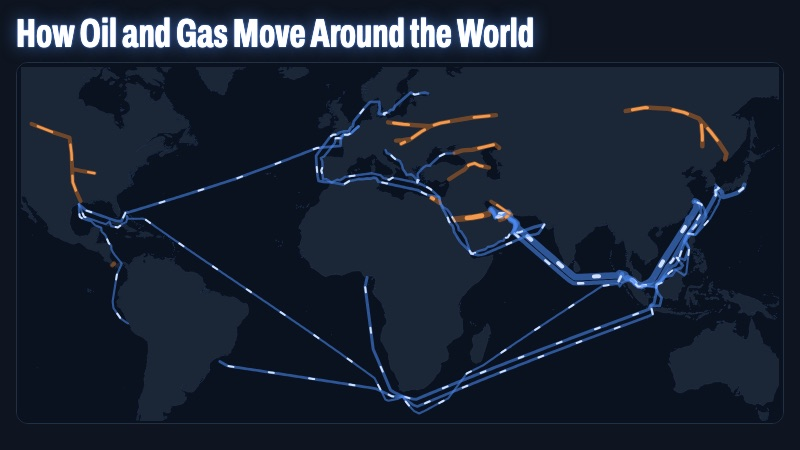
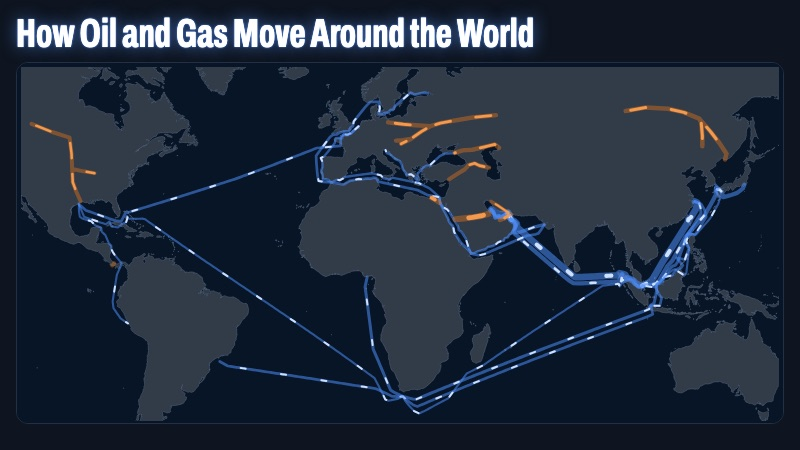
Oil & gas map: steady stat boxes, clearer land/sea, "Pipelines" label
Stat boxes keep one height across all views. Land is lighter than the
sea. "By land" renamed "Pipelines" (some run under the sea; oil also
moves by rail/truck/barge in smaller amounts). JSON-LD description
updated.

diff --git a/energy/oil-gas-flows/index.html b/energy/oil-gas-flows/index.html
@@ -6,11 +6,11 @@
 <link rel="apple-touch-icon" href="https://mekhatria.github.io/interactive-chart/assets/apple-touch-icon.png">
 <meta name="viewport" content="width=device-width, initial-scale=1, viewport-fit=cover">
 <link rel="canonical" href="https://mekhatria.github.io/interactive-chart/energy/oil-gas-flows/">
-<meta name="description" content="Animated world map of how oil and natural gas travel: tanker and LNG routes through Hormuz, Malacca, Suez and the other chokepoints, and the big oil and gas pipelines across land. Data: US EIA, 2025.">
+<meta name="description" content="Animated world map of how oil and natural gas travel: tanker and LNG routes through Hormuz, Malacca, Suez and the other chokepoints, and the big oil and gas pipelines. Data: US EIA, 2025.">
 <meta property="og:type" content="website">
 <meta property="og:site_name" content="Interactive Charts">
 <meta property="og:title" content="How Oil and Gas Move Around the World">
-<meta property="og:description" content="Animated world map of how oil and natural gas travel: tanker and LNG routes through Hormuz, Malacca, Suez and the other chokepoints, and the big oil and gas pipelines across land. Data: US EIA, 2025.">
+<meta property="og:description" content="Animated world map of how oil and natural gas travel: tanker and LNG routes through Hormuz, Malacca, Suez and the other chokepoints, and the big oil and gas pipelines. Data: US EIA, 2025.">
 <meta property="og:url" content="https://mekhatria.github.io/interactive-chart/energy/oil-gas-flows/">
 <meta property="og:image" content="https://mekhatria.github.io/interactive-chart/thumbs/oil-gas-flows.jpg">
 <meta property="og:image:width" content="800">
@@ -27,7 +27,7 @@
       "url": "https://mekhatria.github.io/interactive-chart/energy/oil-gas-flows/",
       "name": "How Oil and Gas Move Around the World",
       "headline": "How Oil and Gas Move Around the World",
-      "description": "Animated world map of how oil and natural gas travel: tanker and LNG routes through Hormuz, Malacca, Suez and the other chokepoints, and the big oil and gas pipelines across land. Data: US EIA, 2025.",
+      "description": "Animated world map of how oil and natural gas travel: tanker and LNG routes through Hormuz, Malacca, Suez and the other chokepoints, and the big oil and gas pipelines. Data: US EIA, 2025.",
       "inLanguage": "en",
       "image": "https://mekhatria.github.io/interactive-chart/thumbs/oil-gas-flows.jpg",
       "datePublished": "2026-11-19",
@@ -278,7 +278,7 @@ button:focus-visible{outline:2px solid #fff;outline-offset:2px}
 
 .stats{display:grid;grid-template-columns:repeat(4,minmax(0,1fr));gap:12px;margin-top:16px}
 @media (max-width:820px){.stats{grid-template-columns:repeat(2,minmax(0,1fr))}}
-.stat{background:var(--panel);border:1px solid var(--line);border-radius:12px;padding:10px 14px}
+.stat{background:var(--panel);border:1px solid var(--line);border-radius:12px;padding:10px 14px;box-sizing:border-box}
 .stat .k{font-size:11px;letter-spacing:.12em;text-transform:uppercase;color:var(--muted)}
 .stat .v{font-stretch:70%;font-weight:650;font-size:26px;line-height:1.15;color:#fff;font-variant-numeric:tabular-nums}
 .stat .v small{font-size:15px;color:var(--muted);font-weight:500;margin-left:3px}
@@ -305,7 +305,7 @@ button:focus-visible{outline:2px solid #fff;outline-offset:2px}
 .switch input:checked+.sl{background:#F2B630}
 .switch input:checked+.sl::after{transform:translateX(14px)}
 .switch input:focus-visible+.sl{outline:2px solid #fff;outline-offset:2px}
-#map{width:100%;aspect-ratio:16/9;min-height:300px;border-radius:12px;overflow:hidden;background:#0A1220;border:1px solid var(--line)}
+#map{width:100%;aspect-ratio:16/9;min-height:300px;border-radius:12px;overflow:hidden;background:#071526;border:1px solid var(--line)}
 @media (max-width:600px){#map{aspect-ratio:auto;height:320px}}
 .legend{display:flex;flex-wrap:wrap;gap:4px 16px;margin:8px 0 0 4px;font-size:13px;color:var(--soft)}
 .legend span{display:inline-flex;align-items:center;gap:7px}
@@ -349,7 +349,7 @@ footer a{color:var(--soft)}
           <div class="modes" role="radiogroup" aria-label="Oil view" data-com="oil">
             <button role="radio" aria-checked="true" tabindex="0" data-com="oil" data-m="all" style="--c:#5B95FA"><span class="rb"></span><span class="ic">🌍</span><span class="t">All</span></button>
             <button role="radio" aria-checked="false" tabindex="-1" class="new" data-com="oil" data-m="sea" style="--c:#4C8DF6"><span class="rb"></span><span class="ic">🚢</span><span class="t">By sea</span></button>
-            <button role="radio" aria-checked="false" tabindex="-1" class="new" data-com="oil" data-m="land" style="--c:#D9701C"><span class="rb"></span><span class="ic">🛢</span><span class="t">By land</span></button>
+            <button role="radio" aria-checked="false" tabindex="-1" class="new" data-com="oil" data-m="land" style="--c:#D9701C"><span class="rb"></span><span class="ic">🛢</span><span class="t">Pipelines</span></button>
           </div>
         </div>
         <div class="box" data-com="gas" style="--bc:#5FD3F0">
@@ -357,7 +357,7 @@ footer a{color:var(--soft)}
           <div class="modes" role="radiogroup" aria-label="Natural gas view" data-com="gas">
             <button role="radio" aria-checked="false" tabindex="-1" class="new" data-com="gas" data-m="all" style="--c:#5B95FA"><span class="rb"></span><span class="ic">🌍</span><span class="t">All</span></button>
             <button role="radio" aria-checked="false" tabindex="-1" class="new" data-com="gas" data-m="sea" style="--c:#4C8DF6"><span class="rb"></span><span class="ic">🚢</span><span class="t">By sea (LNG)</span></button>
-            <button role="radio" aria-checked="false" tabindex="-1" class="new" data-com="gas" data-m="land" style="--c:#D9701C"><span class="rb"></span><span class="ic">🔥</span><span class="t">By land</span></button>
+            <button role="radio" aria-checked="false" tabindex="-1" class="new" data-com="gas" data-m="land" style="--c:#D9701C"><span class="rb"></span><span class="ic">🔥</span><span class="t">Pipelines</span></button>
           </div>
         </div>
       </div>
@@ -375,7 +375,7 @@ footer a{color:var(--soft)}
         <div id="map" role="img" aria-label="World map of the main oil tanker routes, chokepoints and pipelines"></div>
         <div class="legend" aria-hidden="true">
           <span><i class="ln sea"></i>Tanker route (by sea)</span>
-          <span><i class="ln pipe"></i>Pipeline (by land)</span>
+          <span><i class="ln pipe"></i>Pipeline</span>
           <span><i class="bub"></i>Chokepoint, sized by flow (switch on in the box above)</span>
           <span><i class="ln dead"></i>Out of service</span>
           <span style="color:var(--muted)">Moving dashes show the direction of flow · route widths are indicative</span>
@@ -467,7 +467,7 @@ const GAS_ROUTES = [{"id": "lng-qatar-china", "name": "Qatar \u2192 China (LNG)"
   /* ---------- views ---------- */
   const OIL_VIEW = {
     all: { title: 'The big picture', stats: [['Oil moved by sea', '79.8', 'mb/d', 'million barrels a day, 1H 2025'], ['Busiest chokepoint', 'Malacca', '', '23.2 million barrels a day'], ['Hormuz', '≈20%', '', 'of the world\'s oil use passes here'], ['Big detour', '9.1', 'mb/d', 'around the Cape of Good Hope']],
-      story: `<p>Oil is produced in a few places and used everywhere, so it travels far. About <b>80 million barrels a day</b> go by tanker; pipelines carry more across land.</p>
+      story: `<p>Oil is produced in a few places and used everywhere, so it travels far. About <b>80 million barrels a day</b> go by tanker; pipelines carry more, over land and under the sea.</p>
         <p>Most sea routes funnel through a few narrow <b>chokepoints</b>. The busiest are the <b>Strait of Malacca</b> (23.2) and the <b>Strait of Hormuz</b> (20.9 million barrels a day).</p>
         <p>The heaviest flow on Earth runs from the <b>Persian Gulf to Asia</b>: China, India, Japan and South Korea take three-quarters of Hormuz crude.</p>
         <p>Many tankers now take the long way round Africa: <b>9.1 million barrels a day</b> pass the Cape of Good Hope.</p>` },
@@ -476,8 +476,8 @@ const GAS_ROUTES = [{"id": "lng-qatar-china", "name": "Qatar \u2192 China (LNG)"
         <p><b>Hormuz</b> is the only way out of the Persian Gulf. <b>Malacca</b> links the Indian Ocean to East Asia. <b>Bab el-Mandeb</b> and <b>Suez</b> connect the Gulf to Europe.</p>
         <p>The <b>Danish</b> and <b>Turkish straits</b> are the only exits from the Baltic and Black Seas, which is why Russian and Kazakh oil passes there.</p>
         <p>The bar chart shows how much oil passes each one. Switch on <b>Show chokepoints</b> in the Oil box and hover a bubble to see where the oil comes from and goes.</p>` },
-    land: { title: 'By land: the pipelines', stats: [['Longest shown', 'ESPO', '', '4,857 km across Siberia'], ['Biggest capacity', 'East–West', '', 'up to 7 mb/d across Saudi Arabia'], ['Druzhba', '≈4,000 km', '', 'Russia to Central Europe'], ['Pipelines shown', '10', '', 'capacities, not current flows']],
-      story: `<p>On land, oil flows through <b>pipelines</b>, the cheapest way to move it over long distances.</p>
+    land: { title: 'Oil pipelines', stats: [['Longest shown', 'ESPO', '', '4,857 km across Siberia'], ['Biggest capacity', 'East–West', '', 'up to 7 mb/d across Saudi Arabia'], ['Druzhba', '≈4,000 km', '', 'Russia to Central Europe'], ['Pipelines shown', '10', '', 'capacities, not current flows']],
+      story: `<p><b>Pipelines</b> are the cheapest way to move oil over long distances. Oil also travels by train, truck and river barge, but in much smaller amounts, so this map shows the pipelines only.</p>
         <p>Russia sends oil west through <b>Druzhba</b> and east through <b>ESPO</b> to the Pacific and China. Kazakhstan's oil reaches the Black Sea through the <b>CPC</b>, and Azerbaijan's reaches the Mediterranean through <b>BTC</b>.</p>
         <p>Some pipelines exist to <b>avoid chokepoints</b>: <b>East–West</b> across Saudi Arabia, the UAE line to Fujairah, <b>SUMED</b> beside Suez and <b>Trans-Panama</b>.</p>
         <p>Numbers are each pipeline's <b>capacity</b>, the most it can carry; real flows are often lower.</p>` }
@@ -537,8 +537,8 @@ const GAS_ROUTES = [{"id": "lng-qatar-china", "name": "Qatar \u2192 China (LNG)"
         <p><b>Hormuz</b> and <b>Malacca</b> carry most of it. The <b>Red Sea</b> route is empty and <b>Suez</b> only serves Egypt and Jordan, so ships to Europe go round the <b>Cape of Good Hope</b>.</p>
         <p>The <b>Panama Canal</b> used to carry US LNG to Asia; low water in 2023 sent tankers the long way round.</p>
         <p>Figures are in <b>billion cubic feet a day</b> (Bcf/d) of gas. Switch on <b>Show chokepoints</b> in the Natural gas box to see them on the map.</p>` },
-    land: { title: 'Natural gas by land: pipelines', stats: [['Out of service', 'Nord Stream', '', '55 bcm a year, damaged 2022'], ['Russia to China', '38', 'bcm/yr', 'Power of Siberia, since 2019'], ['Algeria to Italy', '33.5', 'bcm/yr', 'Transmed'], ['Pipelines shown', '9', '', 'capacities, not current flows']],
-      story: `<p>Most gas used in Europe and Asia still arrives by <b>pipeline</b>.</p>
+    land: { title: 'Natural gas pipelines', stats: [['Out of service', 'Nord Stream', '', '55 bcm a year, damaged 2022'], ['Russia to China', '38', 'bcm/yr', 'Power of Siberia, since 2019'], ['Algeria to Italy', '33.5', 'bcm/yr', 'Transmed'], ['Pipelines shown', '9', '', 'capacities, not current flows']],
+      story: `<p>Most gas used in Europe and Asia still arrives by <b>pipeline</b>, some of them laid on the seabed, like Nord Stream, TurkStream, Medgaz and Langeled.</p>
         <p>Europe draws on <b>Norway</b> (Langeled), <b>Algeria</b> (Transmed to Italy, Medgaz to Spain, and LNG from Arzew), <b>Azerbaijan</b> (the Southern Gas Corridor) and <b>Russia</b> (TurkStream).</p>
         <p><b>Nord Stream</b> brought Russian gas straight to Germany until 2022: deliveries stopped in August, and explosions in September damaged three of its four lines.</p>
         <p>Russia now sends gas east through <b>Power of Siberia</b>, and China also imports from Central Asia. Numbers are <b>capacities</b> in billion cubic metres a year.</p>` }
@@ -554,7 +554,7 @@ const GAS_ROUTES = [{"id": "lng-qatar-china", "name": "Qatar \u2192 China (LNG)"
 
   /* ---------- map ---------- */
   const land = await fetch('https://cdn.jsdelivr.net/npm/world-atlas@2.0.2/land-50m.json').then(r => r.json());
-  const series = [{ type: 'map', name: 'Land', mapData: land, allAreas: true, nullColor: '#1B2636', borderColor: '#2A3A52', borderWidth: 0.5, enableMouseTracking: false }];
+  const series = [{ type: 'map', name: 'Land', mapData: land, allAreas: true, nullColor: '#323B48', borderColor: '#56647A', borderWidth: 0.6, enableMouseTracking: false }];
   Object.entries(DS).forEach(([c, d]) => {
     const maxW = Math.max(...d.routes.map(r => r.w)), laneW = w => 1.2 + 5.5 * w / maxW;
     const maxC = Math.max(...d.pipes.map(p => p.cap)), pipeW = v => 1.5 + 3.2 * Math.sqrt(Math.min(v, maxC) / maxC);
@@ -573,13 +573,13 @@ const GAS_ROUTES = [{"id": "lng-qatar-china", "name": "Qatar \u2192 China (LNG)"
       data: d.choke.map(k => ({ id: k.id, lon: k.lon, lat: k.lat, z: Math.max(k.v, 0.05), name: k.name, c: k })),
       color: 'rgba(242,182,48,0.32)', marker: { lineColor: '#F2B630', lineWidth: 1.6 }, states: { inactive: { opacity: 1 }, hover: { brightness: 0.2 } },
       dataLabels: { enabled: true, allowOverlap: true, crop: false, overflow: 'allow', y: -2,
-        style: { color: '#fff', textOutline: '3px #0A1220', fontWeight: '650', fontSize: '11px' },
+        style: { color: '#fff', textOutline: '3px #071526', fontWeight: '650', fontSize: '11px' },
         formatter() { const k = this.point.options.c; return W < 640 ? null : `${k.name.replace('Strait of ', '').replace(' + SUMED', '')}\n${k.lt ? '< ' : ''}${fmt(k.v)}`; } }
     });
   });
   let W = 1000;
   const chart = Highcharts.mapChart('map', {
-    chart: { backgroundColor: '#0A1220', animation: false, spacing: [4, 4, 4, 4], style: { fontFamily: 'Archivo, system-ui, sans-serif' },
+    chart: { backgroundColor: '#071526', animation: false, spacing: [4, 4, 4, 4], style: { fontFamily: 'Archivo, system-ui, sans-serif' },
       events: { load() { W = this.chartWidth; }, redraw() { W = this.chartWidth; } } },
     title: { text: null }, credits: { enabled: false }, legend: { enabled: false },
     mapView: { projection: { name: 'Miller' }, fitToGeometry: { type: 'MultiPoint', coordinates: [[-115, 62], [152, 62], [-115, -38], [152, -38]] } },
@@ -655,6 +655,21 @@ const GAS_ROUTES = [{"id": "lng-qatar-china", "name": "Qatar \u2192 China (LNG)"
     chokeOn[cb.dataset.com] = cb.checked;
     if (com !== cb.dataset.com) apply(cb.dataset.com, 'all'); else apply(com, mode);
   }));
+  // keep the four stat boxes the same height whatever is selected: measure every view once, use the tallest
+  function lockStats() {
+    const boxes = [...document.querySelectorAll('.stat')];
+    boxes.forEach(b => { b.style.minHeight = ''; });
+    let h = 0;
+    Object.values(DS).forEach(d => Object.values(d.view).forEach(V => {
+      V.stats.forEach(([k, v, u, n], i) => { $('k' + (i + 1)).textContent = k; $('v' + (i + 1)).innerHTML = v + (u ? `<small>${u}</small>` : ''); $('n' + (i + 1)).textContent = n; });
+      boxes.forEach(b => { h = Math.max(h, b.offsetHeight); });
+    }));
+    boxes.forEach(b => { b.style.minHeight = h + 'px'; });
+  }
+  let rsT;
+  window.addEventListener('resize', () => { clearTimeout(rsT); rsT = setTimeout(() => { lockStats(); apply(com, mode); }, 150); });
+  lockStats();
+  if (document.fonts) document.fonts.ready.then(() => { lockStats(); apply(com, mode); });
   const q = new URLSearchParams(location.search);
   if (q.has('thumb')) { document.body.classList.add('thumb'); chart.reflow(); }
   const qc = DS[q.get('com')] ? q.get('com') : 'oil';

diff --git a/catalog.js b/catalog.js
@@ -23,7 +23,7 @@ window.CATALOG = {
     {
       id: 'oil-gas-flows', title: 'How Oil and Gas Move Around the World', cats: ['energy'], isNew: true,
       tags: ['Map', 'Animated'], thumb: '/thumbs/oil-gas-flows.jpg', href: '/energy/oil-gas-flows/',
-      desc: 'Where the world\'s oil and natural gas travel: tanker and LNG routes through Hormuz, Malacca and Suez, and the big pipelines across land.'
+      desc: 'Where the world\'s oil and natural gas travel: tanker and LNG routes through Hormuz, Malacca and Suez, and the big oil and gas pipelines.'
     },
     {
       id: 'magnetic-shield', title: "Earth's Magnetic Shield vs. Solar Storms", cats: ['energy'], isNew: true,
